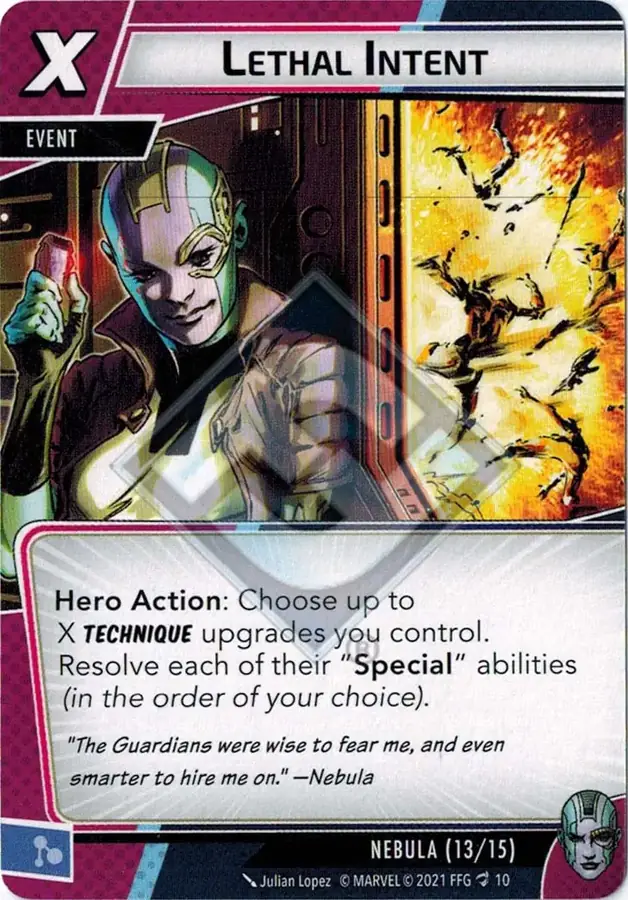
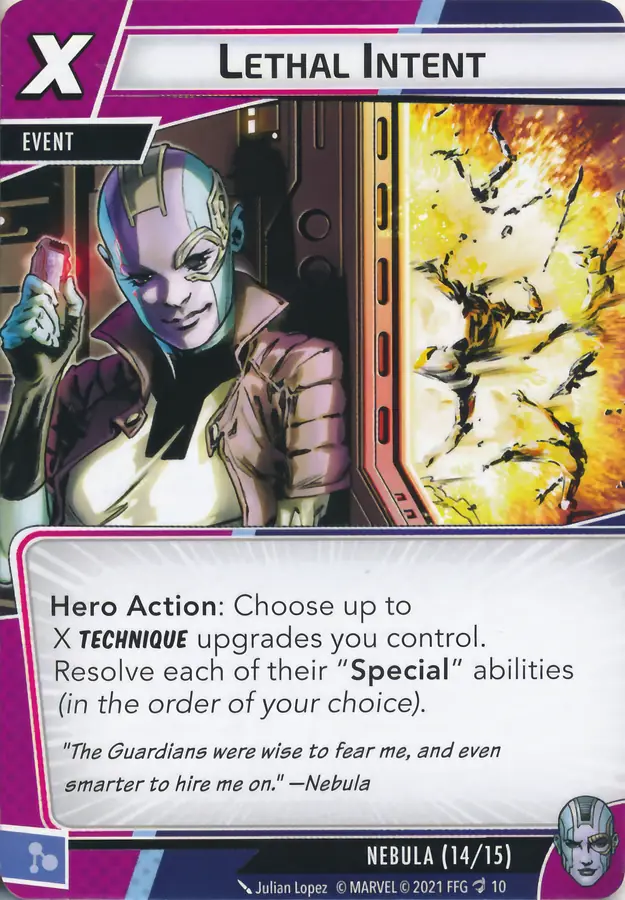
Show Nebula's precon cards without the FFG watermark (#466) (#467)
* Replace Nebula's watermarked precon scans with the owner's own scans

Eros (22011) and ten more Nebula precon cards (22004-22008, 22010, 22012-22014, 22018) showed the FFG preview diamond. These are the owner's own scans of their copies. The fix was first committed on the Spanish card art branch (#393, still open), so main never got it. Cherry-picked from 607ef6c5c and e574da62d.

* Fail the tests if a replaced watermarked card scan comes back

assets/card-art/watermarked-scans.tsv lists the git blob ids of scans replaced for the FFG watermark; a content test fails if any bundled scan matches one. The audit in fetch_card_art.py scores these 900px scans as clean, so it could not catch the Nebula regression.

* Add a before/after sheet of the replaced Nebula scans

diff --git a/packages/content/src/data/watermarked-scans.test.ts b/packages/content/src/data/watermarked-scans.test.ts
@@ -1,0 +1,43 @@
+// Guards the bundled card scans against a watermarked scan coming back after it was replaced. Eros (22011) and ten
+// more Nebula precon scans were replaced with the owner's own scans on 2026-10-23, but only on a branch that never
+// merged, so main kept showing the FFG preview diamond. The audit in scripts/fetch_card_art.py scores these 900px
+// scans as clean (its template fits the smaller MTS previews), so this checks the exact files instead.
+import { createHash } from "node:crypto";
+import { readdirSync, readFileSync } from "node:fs";
+import { dirname, join } from "node:path";
+import { fileURLToPath } from "node:url";
+import { describe, expect, it } from "vitest";
+
+const artDir = join(dirname(fileURLToPath(import.meta.url)), "..", "..", "..", "..", "assets", "card-art");
+const cardsDir = join(artDir, "bundles", "cards");
+
+/** The git blob id of a file's bytes, the id `git rev-parse <rev>:<path>` prints. */
+function blobId(bytes: Buffer): string {
+  return createHash("sha1").update(`blob ${bytes.length}\0`).update(bytes).digest("hex");
+}
+
+const watermarked = new Map(
+  readFileSync(join(artDir, "watermarked-scans.tsv"), "utf8")
+    .split(/\r?\n/)
+    .filter((line) => line && !line.startsWith("#"))
+    .map((line) => {
+      const [blob, file] = line.split("\t");
+      return [blob, file] as const;
+    }),
+);
+
+describe("bundled card scans", () => {
+  it("lists only well-formed blob ids", () => {
+    expect(watermarked.size).toBeGreaterThan(0);
+    for (const blob of watermarked.keys()) expect(blob).toMatch(/^[0-9a-f]{40}$/);
+  });
+
+  it("carry none of the scans replaced for an FFG watermark", () => {
+    const found: string[] = [];
+    for (const name of readdirSync(cardsDir)) {
+      const was = watermarked.get(blobId(readFileSync(join(cardsDir, name))));
+      if (was) found.push(`${name} is the watermarked scan once at ${was}`);
+    }
+    expect(found).toEqual([]);
+  }, 120_000); // reads every bundled scan; a cold disk took 18 s here
+});
